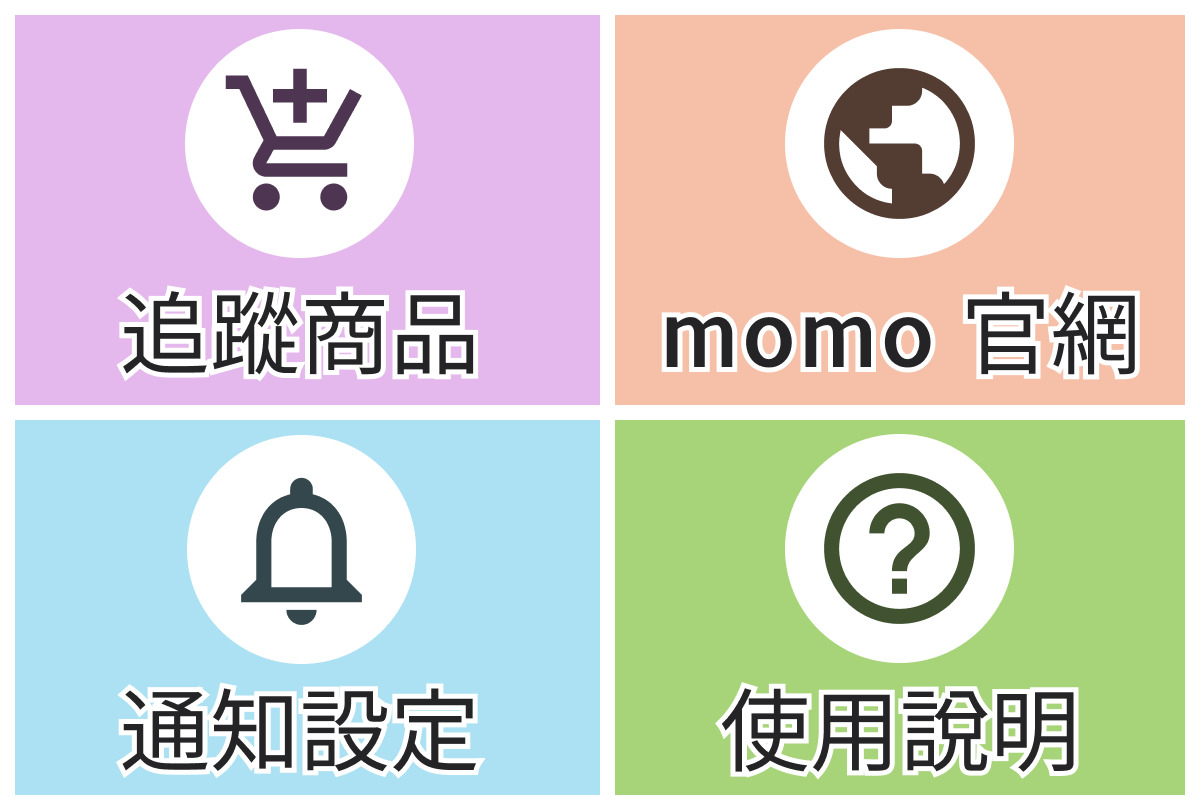
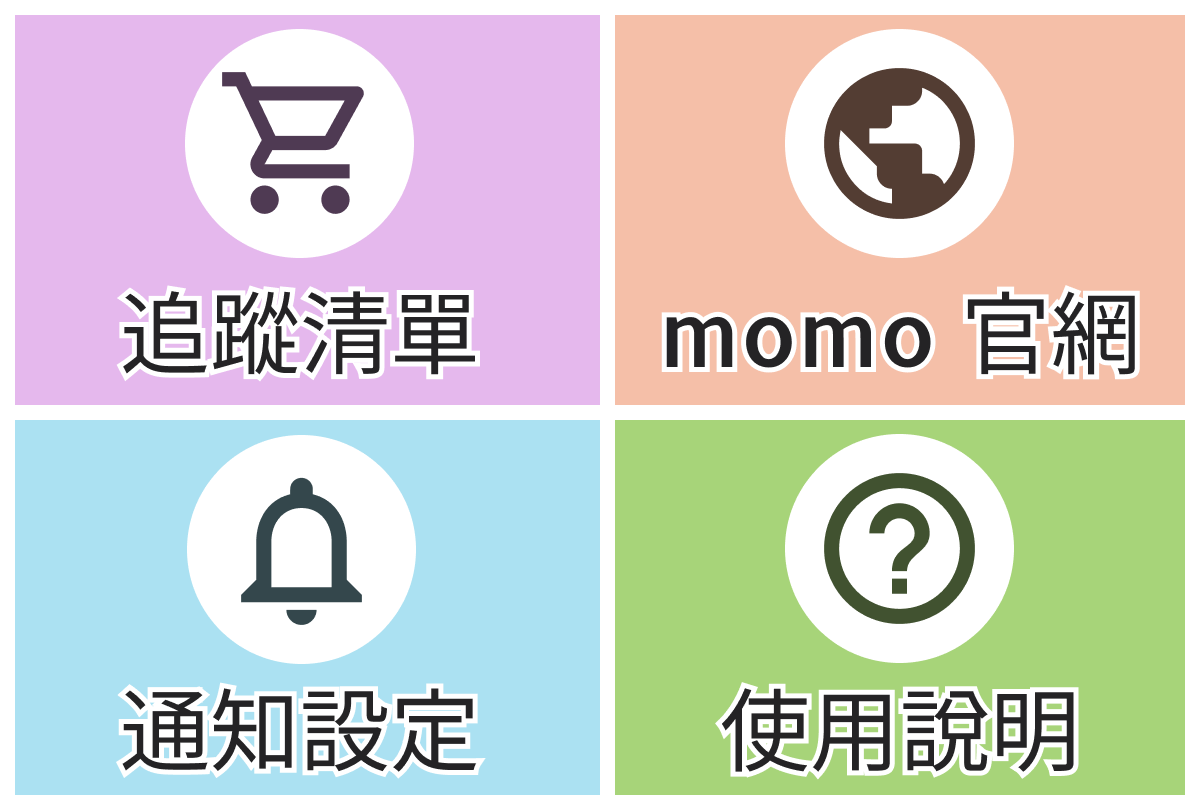
upd: rich menu
Change help command to help article url

Changed region(s): [[0.2467, 0.3395, 0.4008, 0.4938], [0.185, 0.0926, 0.3083, 0.2469]]

diff --git a/momo_tracker/rich_menu.py b/momo_tracker/rich_menu.py
@@ -19,7 +19,8 @@ RICH_MENU = RichMenuRequest(
         RichMenuArea(
             bounds=RichMenuBounds(x=600, y=0, width=600, height=405),
             action=URIAction(
-                uri="https://www.momoshop.com.tw/main/Main.jsp", label="momo 官網"
+                uri="https://www.momoshop.com.tw/main/Main.jsp?openExternalBrowser=1",
+                label="momo 官網",
             ),
         ),
         RichMenuArea(
@@ -28,7 +29,10 @@ RICH_MENU = RichMenuRequest(
         ),
         RichMenuArea(
             bounds=RichMenuBounds(x=600, y=405, width=600, height=405),
-            action=MessageAction(text="cmd=help", label="使用說明"),
+            action=URIAction(
+                uri="https://seraiati.notion.site/momo-05cda362419b4c8480ec9b87cdf552ea?pvs=4&openExternalBrowser=1",
+                label="使用說明",
+            ),
         ),
     ],
 )
